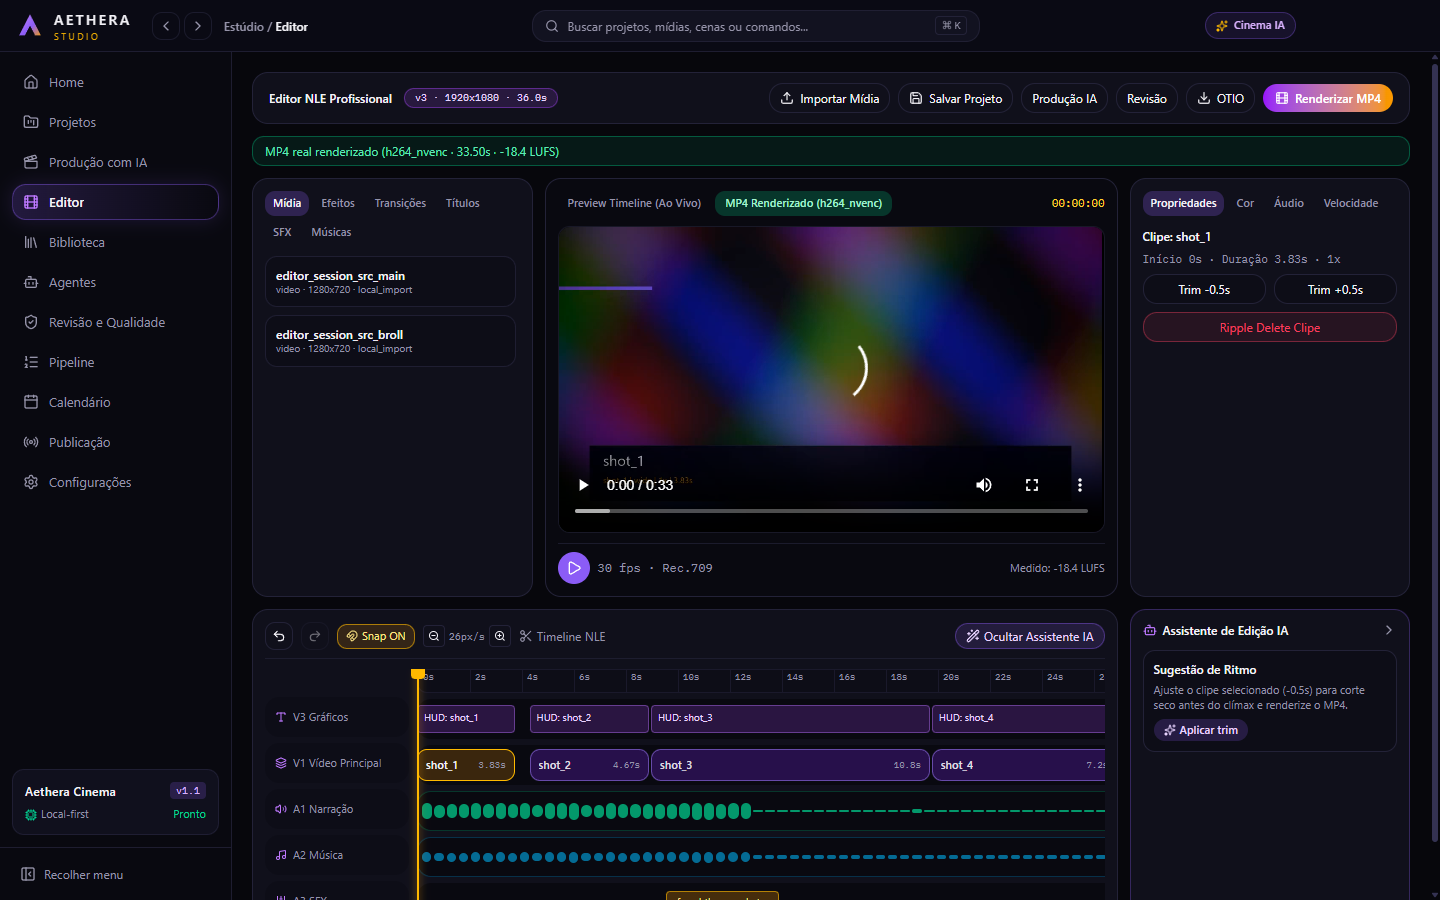
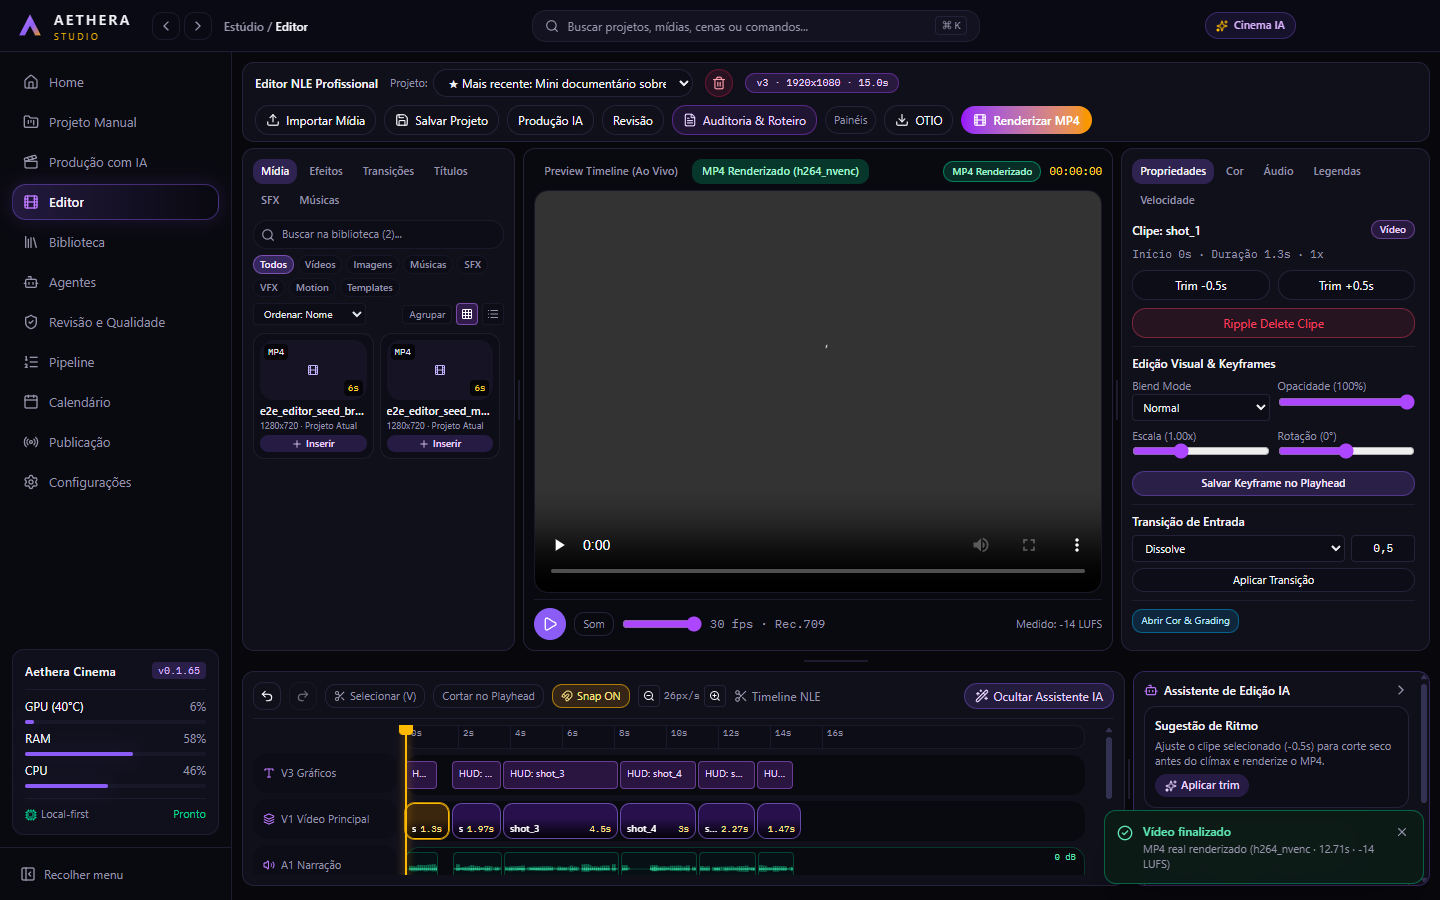
test(e2e): align Aethera redesign spec with staged production flow
"Gerar Direção & Storyboard" now starts the staged pipeline. The spec
asserts the production-contract conflict flow and compliance panel, then
the research-gate pause ("Pesquisa Pendente", no invented facts) produced
by the E2E fake agents, and seeds a short package through cinema:produce
for the Editor checks. Screenshots regenerated by the spec.

diff --git a/tests/e2e/aethera-redesign.spec.ts b/tests/e2e/aethera-redesign.spec.ts
@@ -69,7 +69,7 @@ test('Aethera Studio Redesign — E2E Navigation, Cinema AI IPC & Visual Screens
     await expect(win.getByRole('heading', { name: 'Projeto Manual' })).toBeVisible();
     await win.screenshot({ path: join(screenshotsDir, '02-projetos.png') });
 
-    // 3. Produção com IA + Real IPC execution + Duration Sync + Plan Approval
+    // 3. Produção com IA + Production Contract sync + staged pipeline (real IPC)
     await win.locator('aside nav').getByRole('link', { name: 'Produção com IA' }).click();
     await expect(win.getByRole('heading', { name: 'Produção com IA' })).toBeVisible();
     await expect(win.getByText(/720s \(12 min\)/i)).toBeVisible();
@@ -82,12 +82,28 @@ test('Aethera Studio Redesign — E2E Navigation, Cinema AI IPC & Visual Screens
     await win.getByRole('button', { name: 'Manter controle' }).click();
     await win.getByRole('button', { name: /Gerar Direção & Storyboard/i }).click();
     await expect(win.getByRole('region', { name: 'Conformidade do contrato de produção' })).toBeVisible();
-    await expect(win.getByText(/Planejamento Narrativo & Storyboard/i)).toBeVisible({ timeout: 10_000 });
-    await win.getByRole('button', { name: /Aprovar Plano/i }).click();
-    await expect(win.getByRole('button', { name: /Plano Aprovado/i })).toBeVisible();
+    // The button starts the staged pipeline. The E2E fake agents return no verifiable research
+    // dossier, so the job must pause at the research gate instead of inventing facts.
+    await expect(win.getByText(/Pausado \(Pesquisa Pendente\)/i).first()).toBeVisible({ timeout: 60_000 });
+    await expect(win.getByText(/Nenhum fato foi inventado/i).first()).toBeVisible();
+    await expect(win.getByRole('button', { name: 'Retomar Projeto' }).first()).toBeVisible();
     await win.screenshot({ path: join(screenshotsDir, '03-producao-ia.png') });
 
     // 4. Editor NLE Profissional — Importar -> Editar -> Preview -> Renderizar MP4 Real
+    // The staged production above stops at the research gate, so seed a short real package through
+    // the deterministic cinema:produce IPC; the Editor opens the latest project.
+    const seeded = await win.evaluate(async () => {
+      const api = (window as unknown as { aetheraBridge?: { cinemaProduce?: (i: Record<string, unknown>) => Promise<{ timeline?: { projectId?: string } }> } }).aetheraBridge;
+      return api?.cinemaProduce?.({
+        projectId: 'e2e_editor_seed',
+        prompt: 'Mini documentário sobre exploração espacial',
+        genre: 'documentary',
+        format: 'youtube_16_9',
+        targetDurationSec: 12,
+        humorIntensity: 20,
+      }) ?? null;
+    });
+    expect(seeded?.timeline?.projectId).toBe('e2e_editor_seed');
     await win.locator('aside nav').getByRole('link', { name: 'Editor' }).click();
     await expect(win.getByText('Editor NLE Profissional')).toBeVisible();
     await expect(win.getByText('Timeline NLE')).toBeVisible({ timeout: 10_000 });

diff --git a/docs/superpowers/plans/2026-11-16-aethera-format-direction-system.md b/docs/superpowers/plans/2026-11-16-aethera-format-direction-system.md
@@ -116,4 +116,4 @@ Implementado pelas sessões Codex (interrompidas por limite de uso) e concluído
 - Domínio (`production-contract.ts`, `director/aethera-format-catalog.ts`), propagação no `StagedCinemaPipeline`, renderer (preview/master, safe areas, validação FFprobe), IPC e UI (sincronização com conflito, painel de conformidade, seletores de direção/entrega) estão implementados.
 - Correções na validação final: prévia legada (`renderProfile: draft_540p`) não sobe mais para 720p; render sem `renderTarget`/preset volta ao comportamento de prévia (master só quando pedido); placeholder procedural gerado a ≤640px (o `geq` em resolução cheia estourava timeouts); renderer passa a importar só `@neuralbridge/cinema/browser` (o barrel puxava FFmpeg/`node:util` para o navegador e o app abria em branco); `node:crypto` trocado por SHA-256 puro com saída idêntica (`ir/sha256.ts`).
 - Evidência: typecheck limpo (cinema src, aethera node/web, tests); suíte Cinema+Aethera+desktop-shared 351/352 passando — a única falha (`project-isolation-and-preview` › full-length preview, timeout 60s) também falha no HEAD anterior.
-- Pendente: `tests/e2e/aethera-redesign.spec.ts` valida conflito/“Manter controle”/painel de conformidade, mas falha no passo legado “Planejamento Narrativo & Storyboard” — o botão agora inicia o pipeline em etapas (mudança anterior, `a5265fe`), e a spec não foi atualizada para esse fluxo.
+- E2E `tests/e2e/aethera-redesign.spec.ts` atualizado para o pipeline em etapas: valida conflito/“Manter controle”, painel de conformidade e a pausa em “Pesquisa Pendente” sem fatos inventados (agentes falsos não geram dossiê); o Editor usa um pacote semeado via `cinema:produce`. Passou 2×.

diff --git a/docs/superpowers/plans/2026-11-16-production-contract.md b/docs/superpowers/plans/2026-11-16-production-contract.md
@@ -143,4 +143,4 @@ Implementado pelas sessões Codex (interrompidas por limite de uso) e concluído
 - Domínio (`production-contract.ts`, `director/aethera-format-catalog.ts`), propagação no `StagedCinemaPipeline`, renderer (preview/master, safe areas, validação FFprobe), IPC e UI (sincronização com conflito, painel de conformidade, seletores de direção/entrega) estão implementados.
 - Correções na validação final: prévia legada (`renderProfile: draft_540p`) não sobe mais para 720p; render sem `renderTarget`/preset volta ao comportamento de prévia (master só quando pedido); placeholder procedural gerado a ≤640px (o `geq` em resolução cheia estourava timeouts); renderer passa a importar só `@neuralbridge/cinema/browser` (o barrel puxava FFmpeg/`node:util` para o navegador e o app abria em branco); `node:crypto` trocado por SHA-256 puro com saída idêntica (`ir/sha256.ts`).
 - Evidência: typecheck limpo (cinema src, aethera node/web, tests); suíte Cinema+Aethera+desktop-shared 351/352 passando — a única falha (`project-isolation-and-preview` › full-length preview, timeout 60s) também falha no HEAD anterior.
-- Pendente: `tests/e2e/aethera-redesign.spec.ts` valida conflito/“Manter controle”/painel de conformidade, mas falha no passo legado “Planejamento Narrativo & Storyboard” — o botão agora inicia o pipeline em etapas (mudança anterior, `a5265fe`), e a spec não foi atualizada para esse fluxo.
+- E2E `tests/e2e/aethera-redesign.spec.ts` atualizado para o pipeline em etapas: valida conflito/“Manter controle”, painel de conformidade e a pausa em “Pesquisa Pendente” sem fatos inventados (agentes falsos não geram dossiê); o Editor usa um pacote semeado via `cinema:produce`. Passou 2×.
